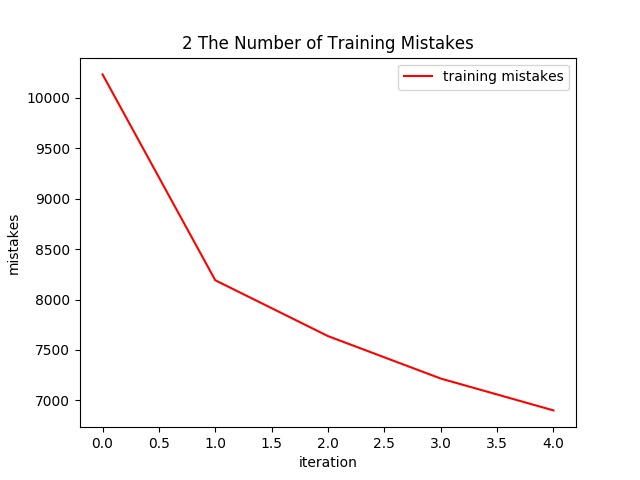
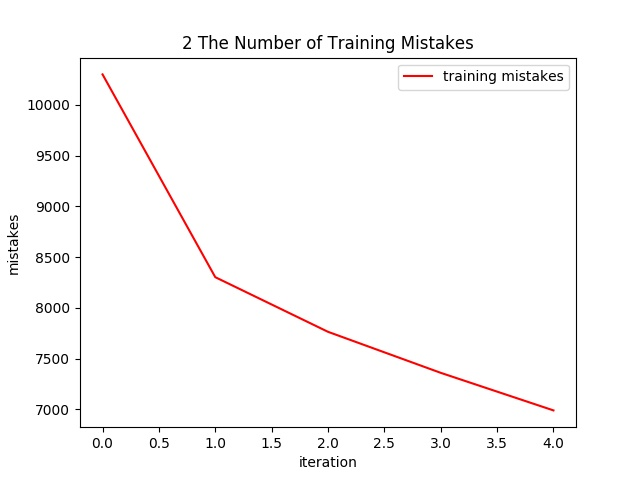
update hw2 for machine learning, just waiting for Kernel Perceptron_s result

diff --git a/machine_learning/hw2/codes/KernelizedPerceptron.py b/machine_learning/hw2/codes/KernelizedPerceptron.py
@@ -29,27 +29,27 @@ def MyKP(x_train, y_train, x_validation, y_validation,
 
     w = np.dot(alpha.T, x_train)
 
-    for i in range(len(x_train)):
-        if np.dot(x_train[i], w.T).argmax() != y_train[i]:
-            train_mistake += 1
-    for i in range(len(x_validation)):
-        if np.dot(x_validation[i], w.T).argmax() != y_validation[i]:
-            validation_mistake += 1
-    for i in range(len(x_test)):
-        if np.dot(x_test[i], w.T).argmax() != y_test[i]:
-            test_mistake += 1
-
+    train_accuracy =\
+    np.sum([pre.argmax() for pre in np.dot(x_train, w.T)]
+           == y_train)/len(y_train)
+    vali_accuracy =\
+    np.sum([pre.argmax() for pre in np.dot(x_validation, w.T)]
+           == y_validation)/len(y_validation)
+    test_accuracy =\
+    np.sum([pre.argmax() for pre in np.dot(x_train, w.T)]
+           == y_test)/len(y_test)
     plt.figure(num=2)
     plt.plot(training_mistakes, color="red", label="training mistakes")
     plt.legend()
     plt.xlabel("iteration")
     plt.ylabel("mistakes")
     plt.title("2 The Number of Training Mistakes")
-    plt.savefig('../part2.jpg')
-    print("train_accuracy:", train_mistake/len(x_train)*100, "%")
+    name = '../part2-'+degree+'./pg'
+    plt.savefig(name)
+    print("train_accuracy:", train_accuracy*100, "%")
     print("validation_accuracy:",
-          validation_mistake/len(x_validation)*100, "%")
-    print("test_accuracy:", test_mistake/len(x_test)*100, "%")
+          vali_accuracy*100, "%")
+    print("test_accuracy:", test_accuracy*100, "%")
     print("training mistakes:", training_mistakes)
 
 

diff --git a/machine_learning/hw2/hw2-programming.tex b/machine_learning/hw2/hw2-programming.tex
@@ -12,7 +12,7 @@
                 \par Since I use LinearSVC, I cannot plot the
                 number of support vectors. And finally I find the best C is 0.001.
             \subsubsection{b}
-                \par The testing accuracy: 77.69\%.
+                \par When C is 0.001, the testing accuracy: 77.69\%.
                 \par The corresponding confusion matrix:
                 \[
                 \left[
@@ -40,6 +40,9 @@
 \\$array([1539,  169, 1720, 1301, 1815,  941, 2491,  857,  374,  463], dtype=int32),$
 \\$array([1362,  149, 1460, 1148, 1556,  993, 2245,  766,  321,  399], dtype=int32)]$
 \\ $The\ best\ degree: 2$
+\\ According to these data, we can know that with the kernel degree increase, the accuracy of 
+validation and test are decrease, and the number of support vectors are also decrease. So that 
+the degree 2 is the best one for this poly-kernel SVM
         \subsection{Problem 2}
 \\$train\ accuracy: 90.12083333333332 \%$
 \\$validation\ accuracy: 89.51666666666667 \%$
@@ -50,4 +53,10 @@
 \\$validation\ Accuracy: 65.00\%$
 \\$testing\ Accuracy: 74.28571428571429\%$
             \subsubsection{d}
+\\$training\ Accuracy: 86.40167\%$
+\\$validation\ Accuracy: 97.014925\%$
+\\$test\ Accuracy: 93.9338235\%$
+\\ From these data, we can not that with pruning the tree, the training accuracy is decrease 
+but validation accuracy and testing accuracy are both increase. I think it is because of the 
+overfitting, and when we do the pruning, it become more fittable.
 \end{document}

diff --git a/machine_learning/hw2/codes/KP.py b/machine_learning/hw2/codes/KP.py
@@ -13,4 +13,6 @@ if __name__ == '__main__':
     x_test, y_test = load_mnist('data/fashion', kind='t10k')
     x_train, x_validation, y_train, y_validation =\
         train_test_split(images, labels, test_size=0.2)
-    MyKP(x_train, y_train, x_validation, y_validation, x_test, y_test)
+    degree = [2, 3, 4]
+    for i in degree:
+        MyKP(x_train, y_train, x_validation, y_validation, x_test, y_test, i)
